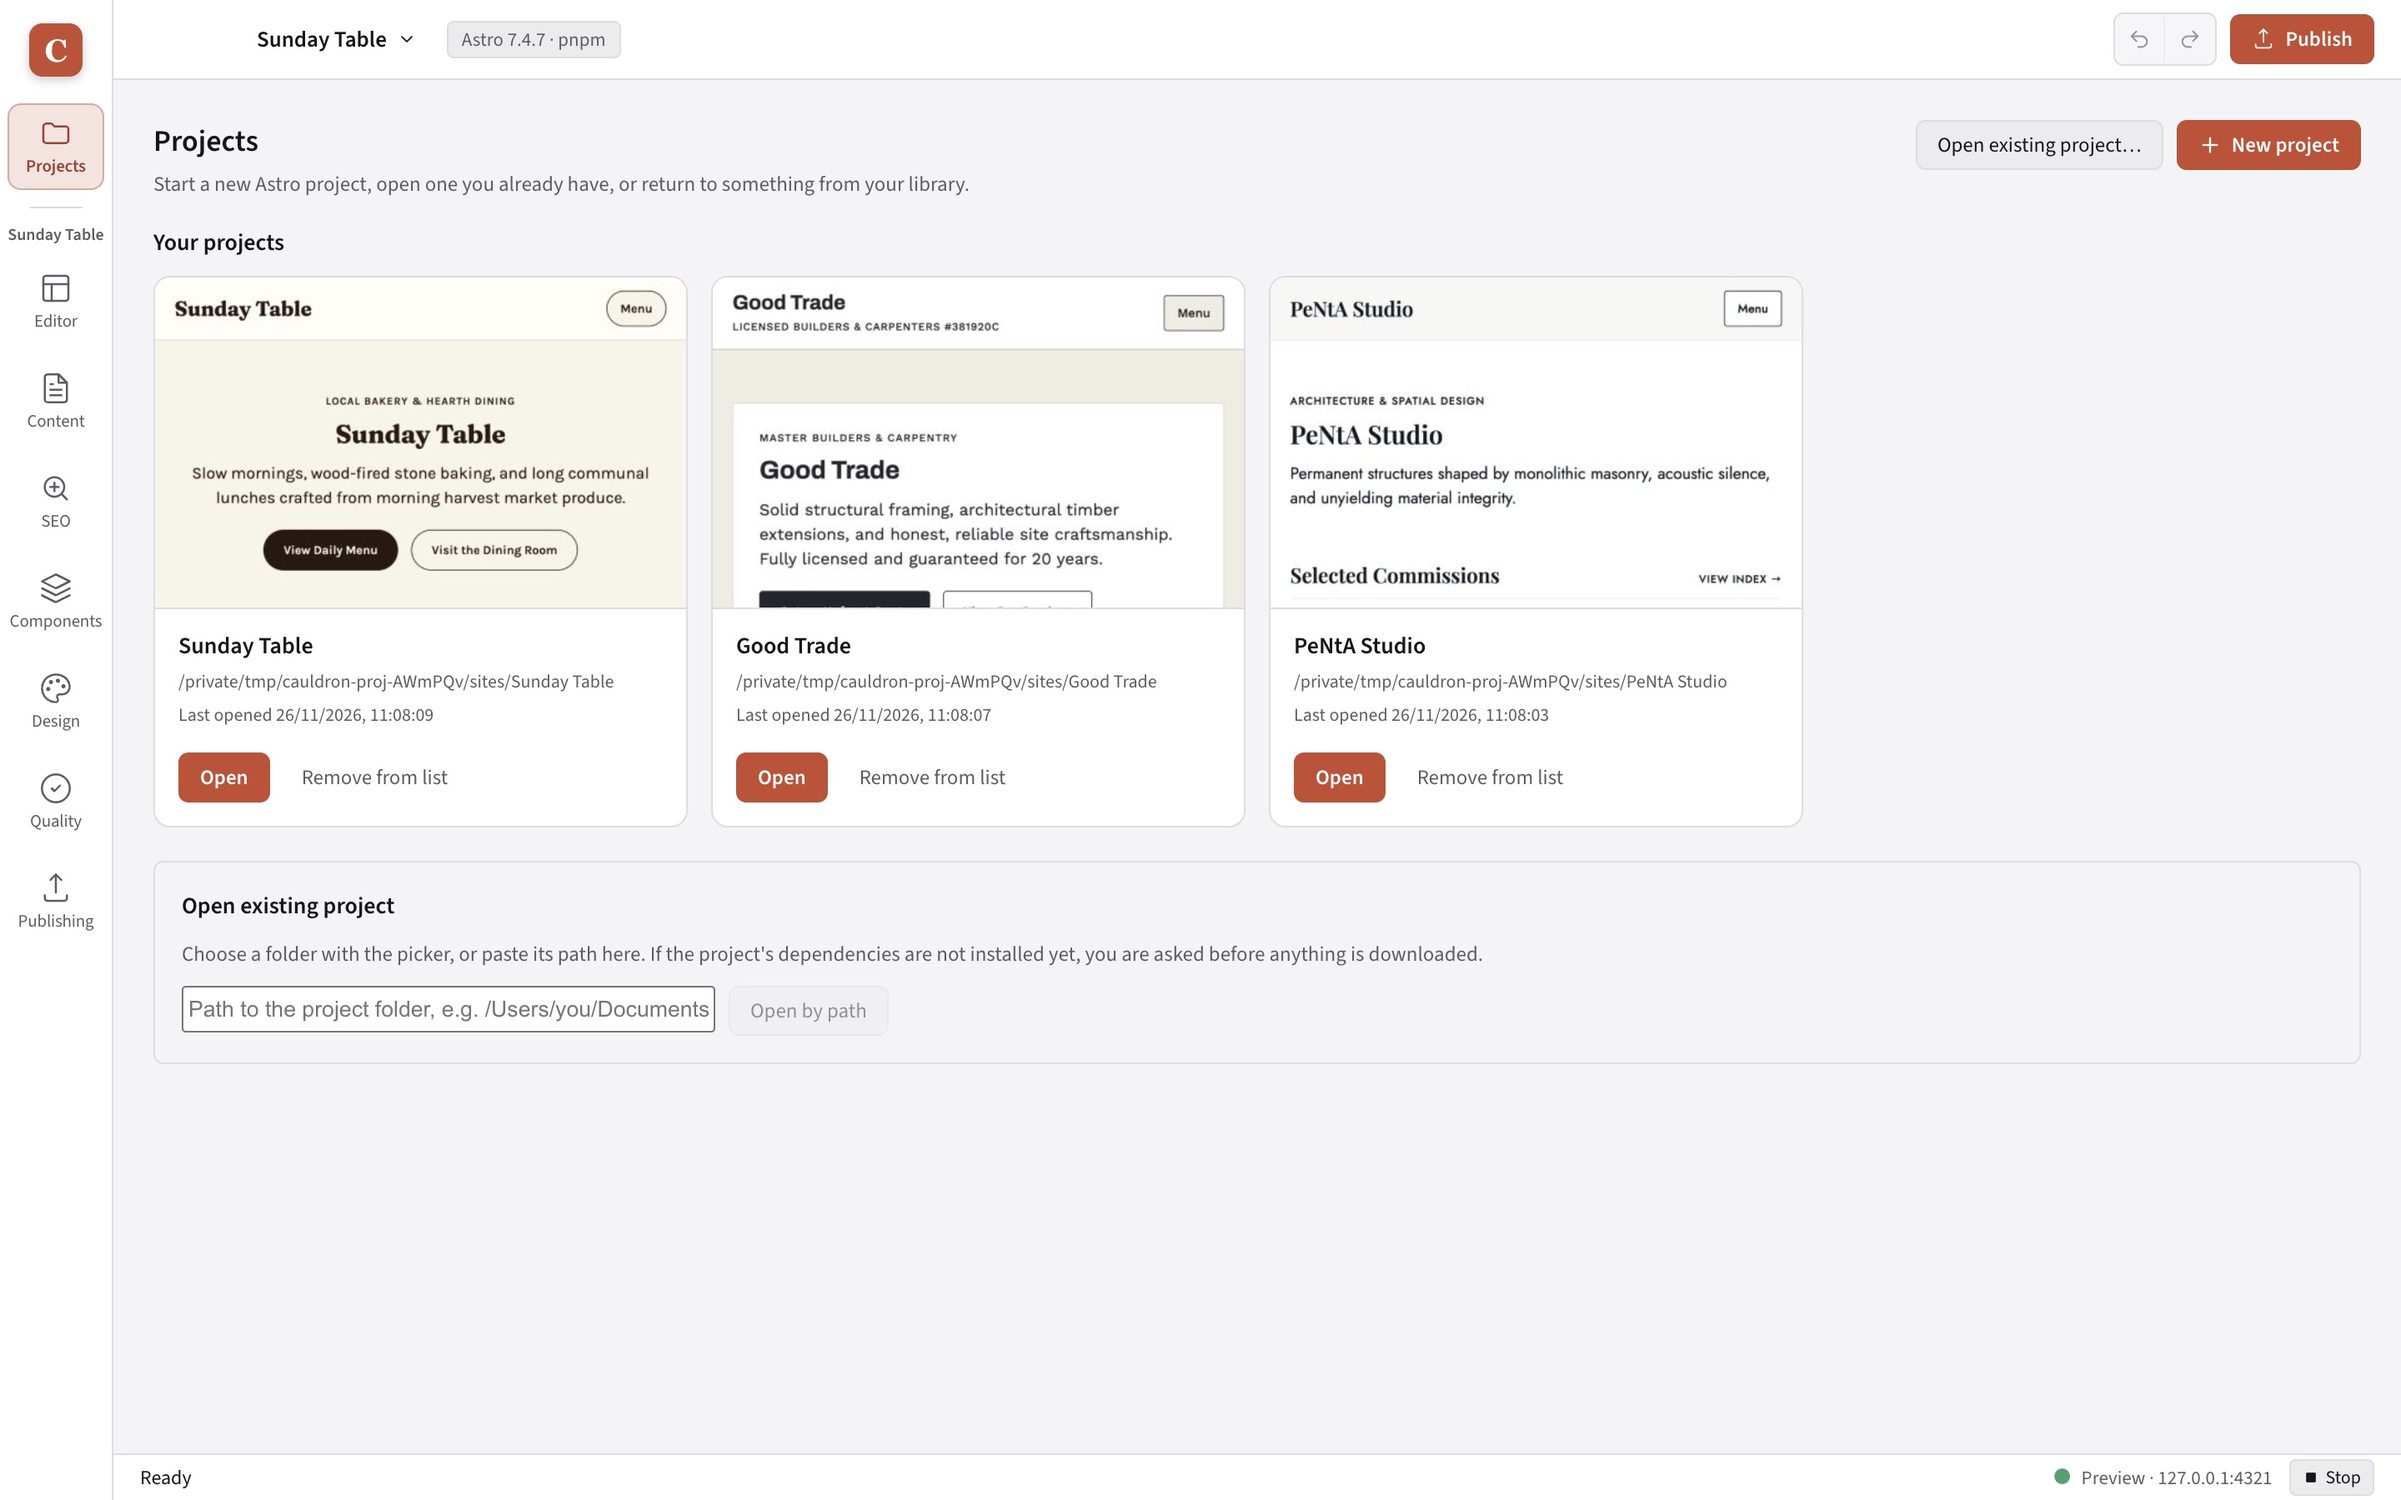
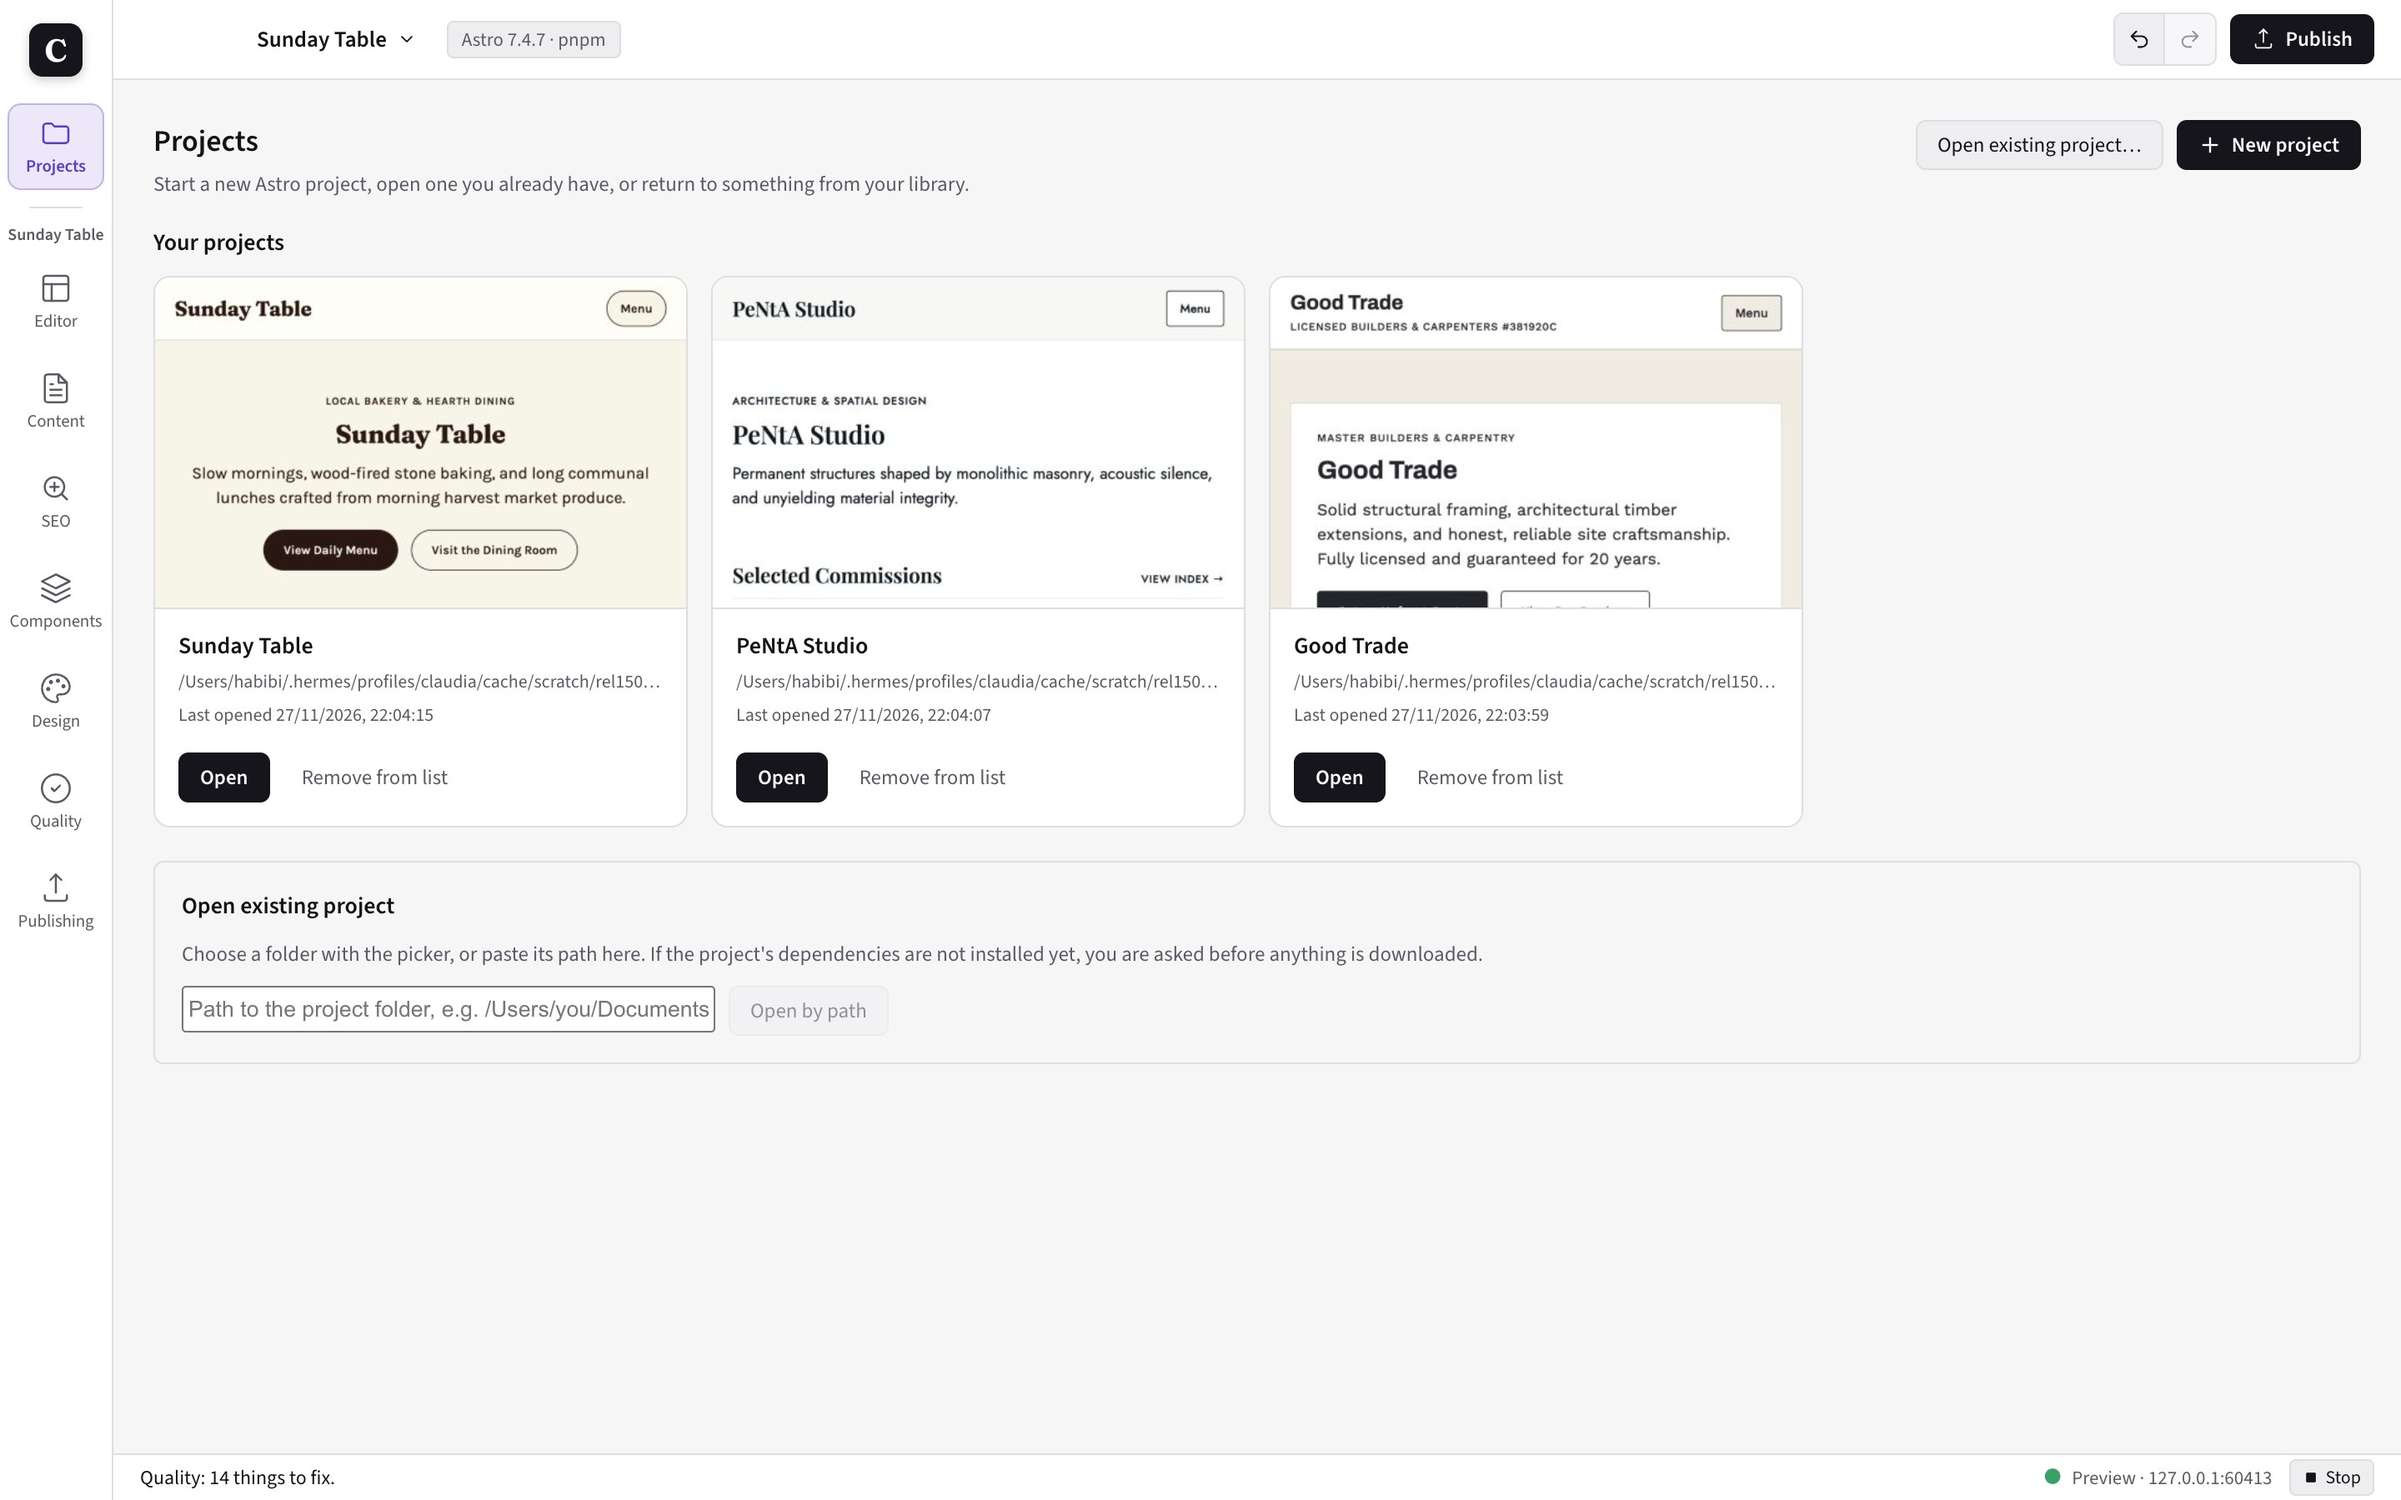
WDL-273: README screenshots for Ink & Violet, and 0.150.0
The public README still showed the coral app from before WDL-272, plus the
coloured side stripes WDL-270 and WDL-271 removed.

- All seven screenshots recaptured from the packaged production build of
  fb71b72, light theme (the theme the README has always shown), with the three
  built-in starters: Sunday Table on Long Lunch, plus PeNtA Studio and Good
  Trade for the project cards.
- The hero composites two real captures taken together, the window and the
  live preview view at the stage rectangle, because a window capture leaves
  the preview view out.
- The SEO shot now shows real work: the home description and a menu page title
  and description entered through the panel. The home title stays locked
  (WDL-266), which is the honest current state.
- Version 0.150.0 in package.json, package-lock.json and the README download
  path.

The coral-era screenshots are kept on the Mac at
~/hermes/apps-codebases/archive/cauldron-readme-screenshots/2026-11-27-coral-0.10.0/.

The WDL-153 release test pinned 0.10.0 by hand. It now checks that the README
names the zip package.json declares, so a bump cannot leave a dead link.

diff --git a/README.md b/README.md
@@ -61,17 +61,17 @@ Commit and push through the site's own Git repository, deploy in one click to **
 
 ## Download (unsigned Mac build)
 
-Download **`Cauldron-darwin-arm64-0.10.0.zip`** from [GitHub Releases](https://github.com/cre8tivoz/cauldron/releases), or build it locally from source (`Node.js` 26.13, `npm` 12):
+Download **`Cauldron-darwin-arm64-0.150.0.zip`** from [GitHub Releases](https://github.com/cre8tivoz/cauldron/releases), or build it locally from source (`Node.js` 26.13, `npm` 12):
 
 ```bash
 npm install
-npm run make   # produces out/make/zip/darwin/arm64/Cauldron-darwin-arm64-0.10.0.zip
+npm run make   # produces out/make/zip/darwin/arm64/Cauldron-darwin-arm64-0.150.0.zip
 ```
 
 > **Unsigned macOS app — first launch:**
 > Cauldron is distributed **unsigned and not notarised** (no Apple Developer certificate). On first launch, macOS Gatekeeper may block `Cauldron.app`:
 >
-> 1. Unzip `Cauldron-darwin-arm64-0.10.0.zip` and move **`Cauldron.app`** into **Applications**.
+> 1. Unzip `Cauldron-darwin-arm64-0.150.0.zip` and move **`Cauldron.app`** into **Applications**.
 > 2. Try opening **`Cauldron.app`**. If macOS says the developer cannot be verified, dismiss the dialog.
 > 3. Open **System Settings → Privacy & Security**, scroll down to the Cauldron notice, click **Open Anyway**, and confirm **Open**.
 
